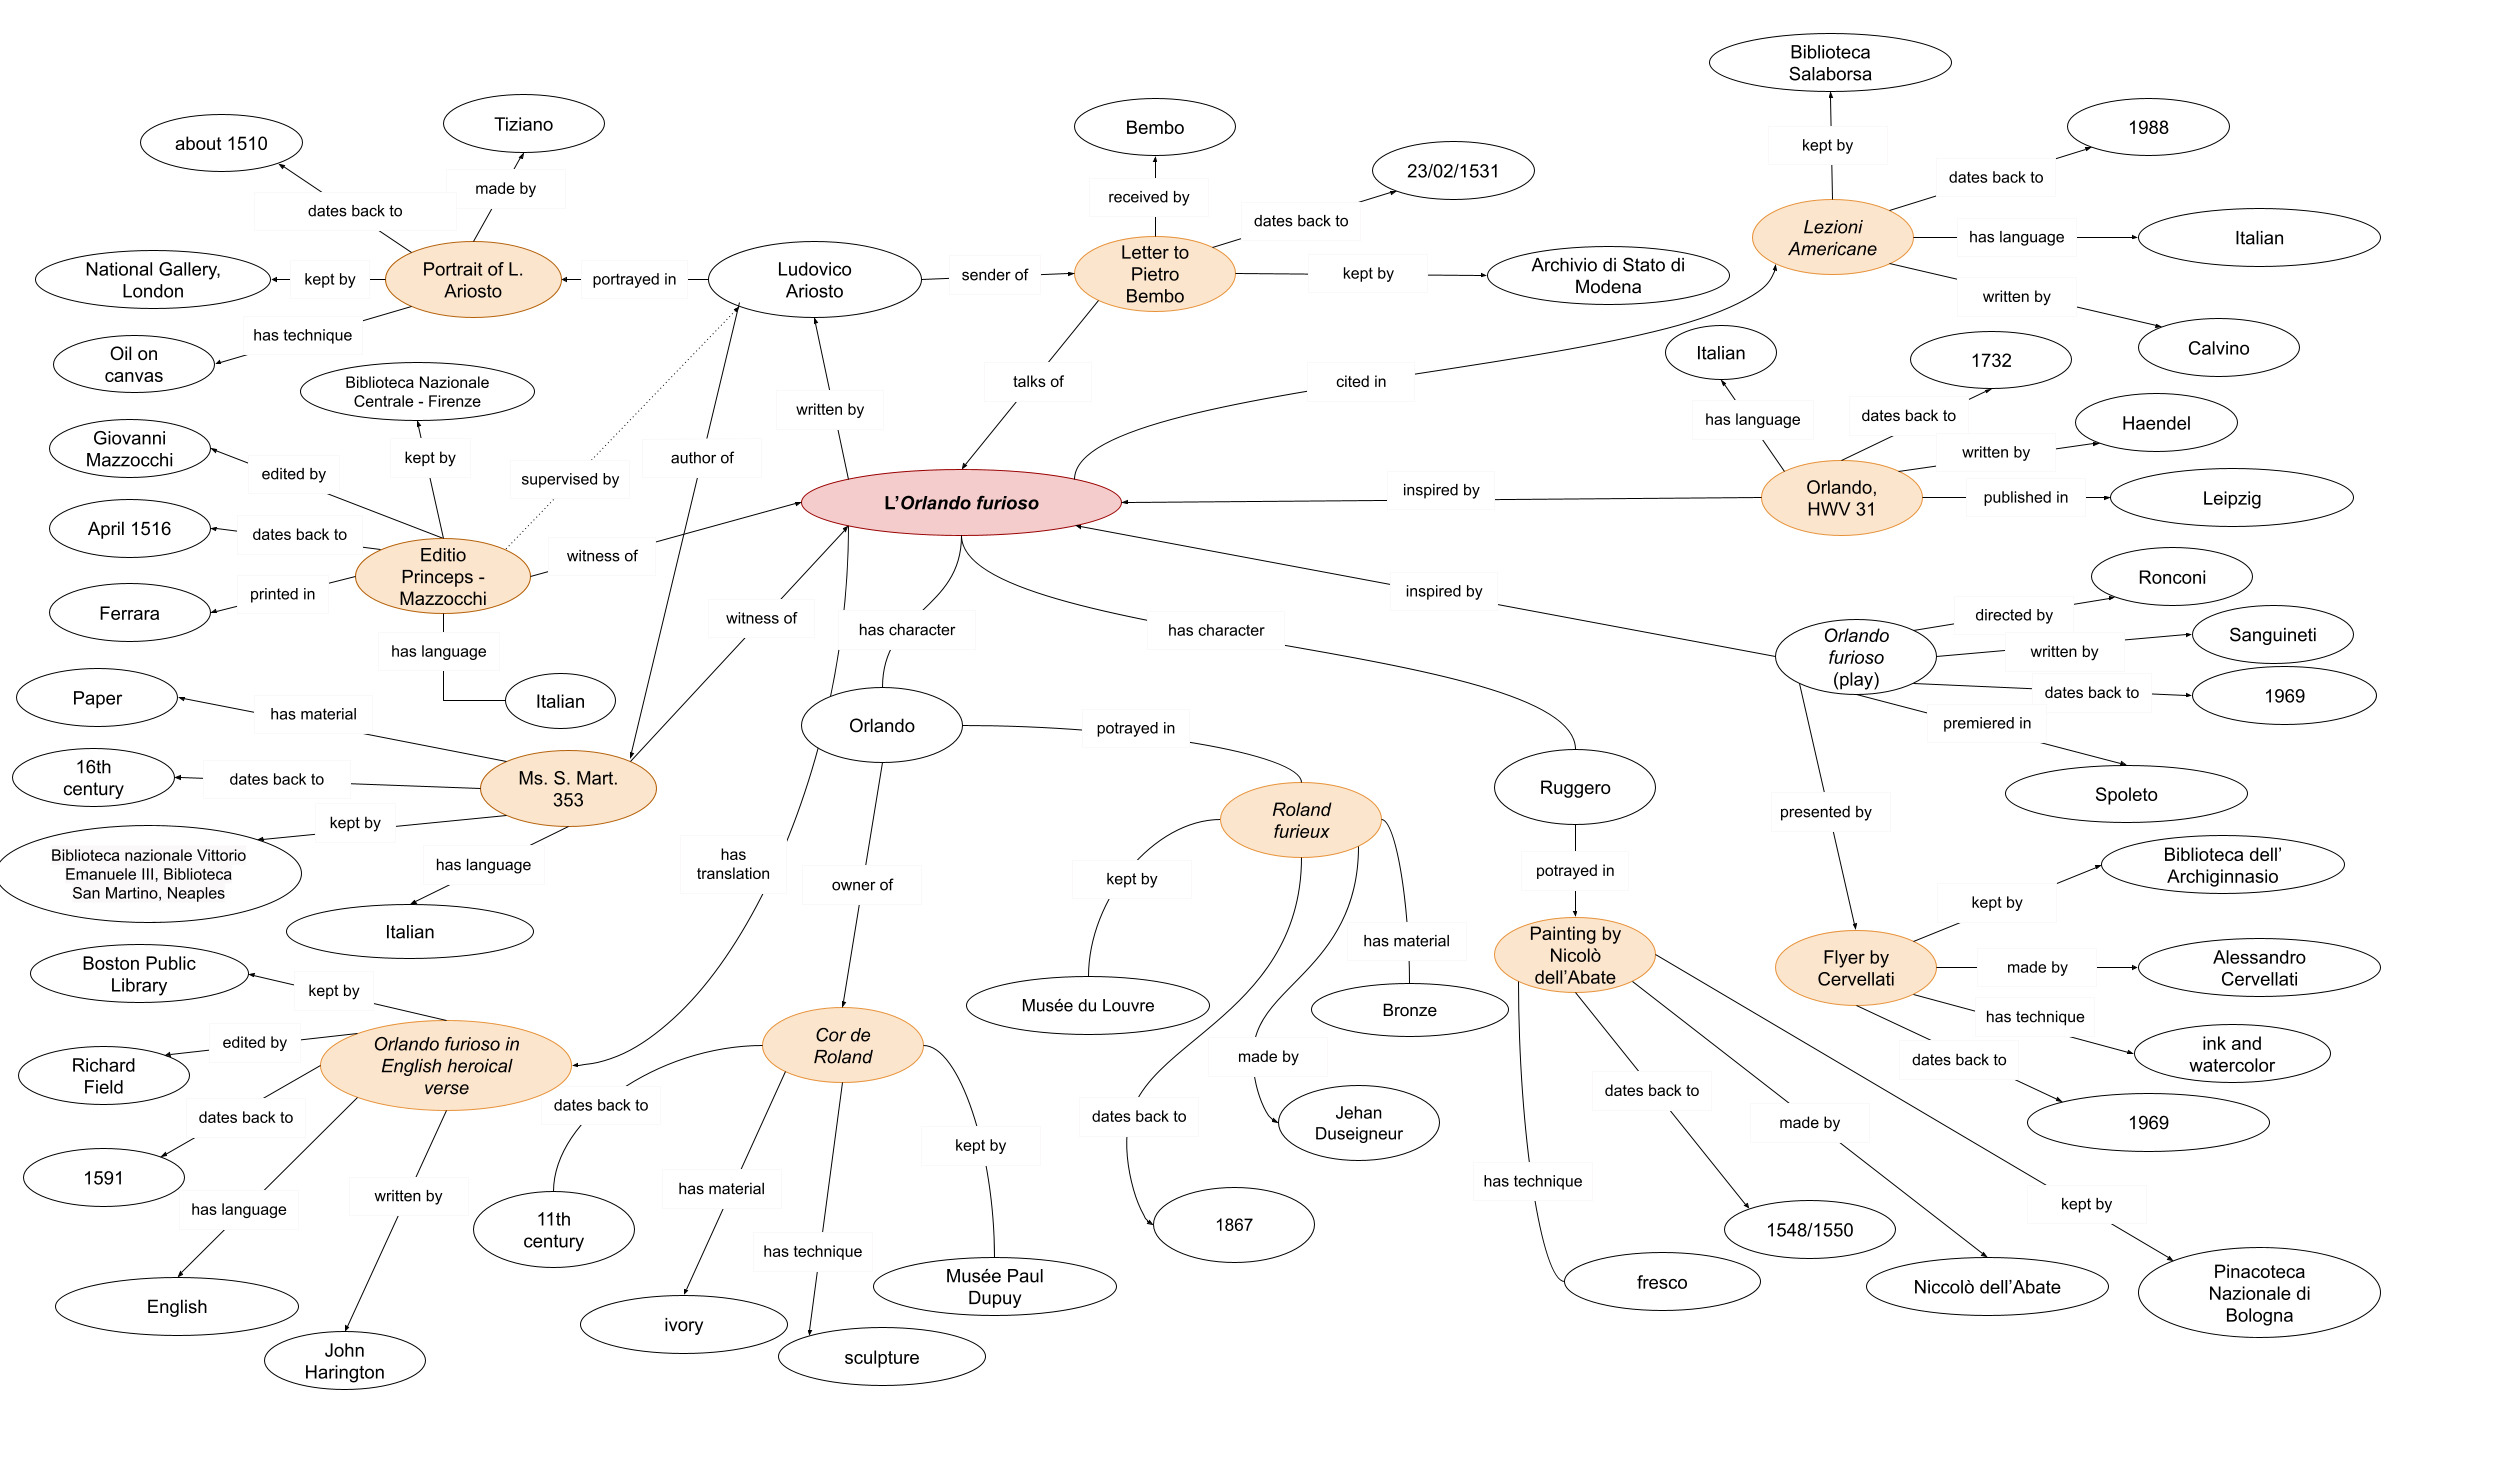
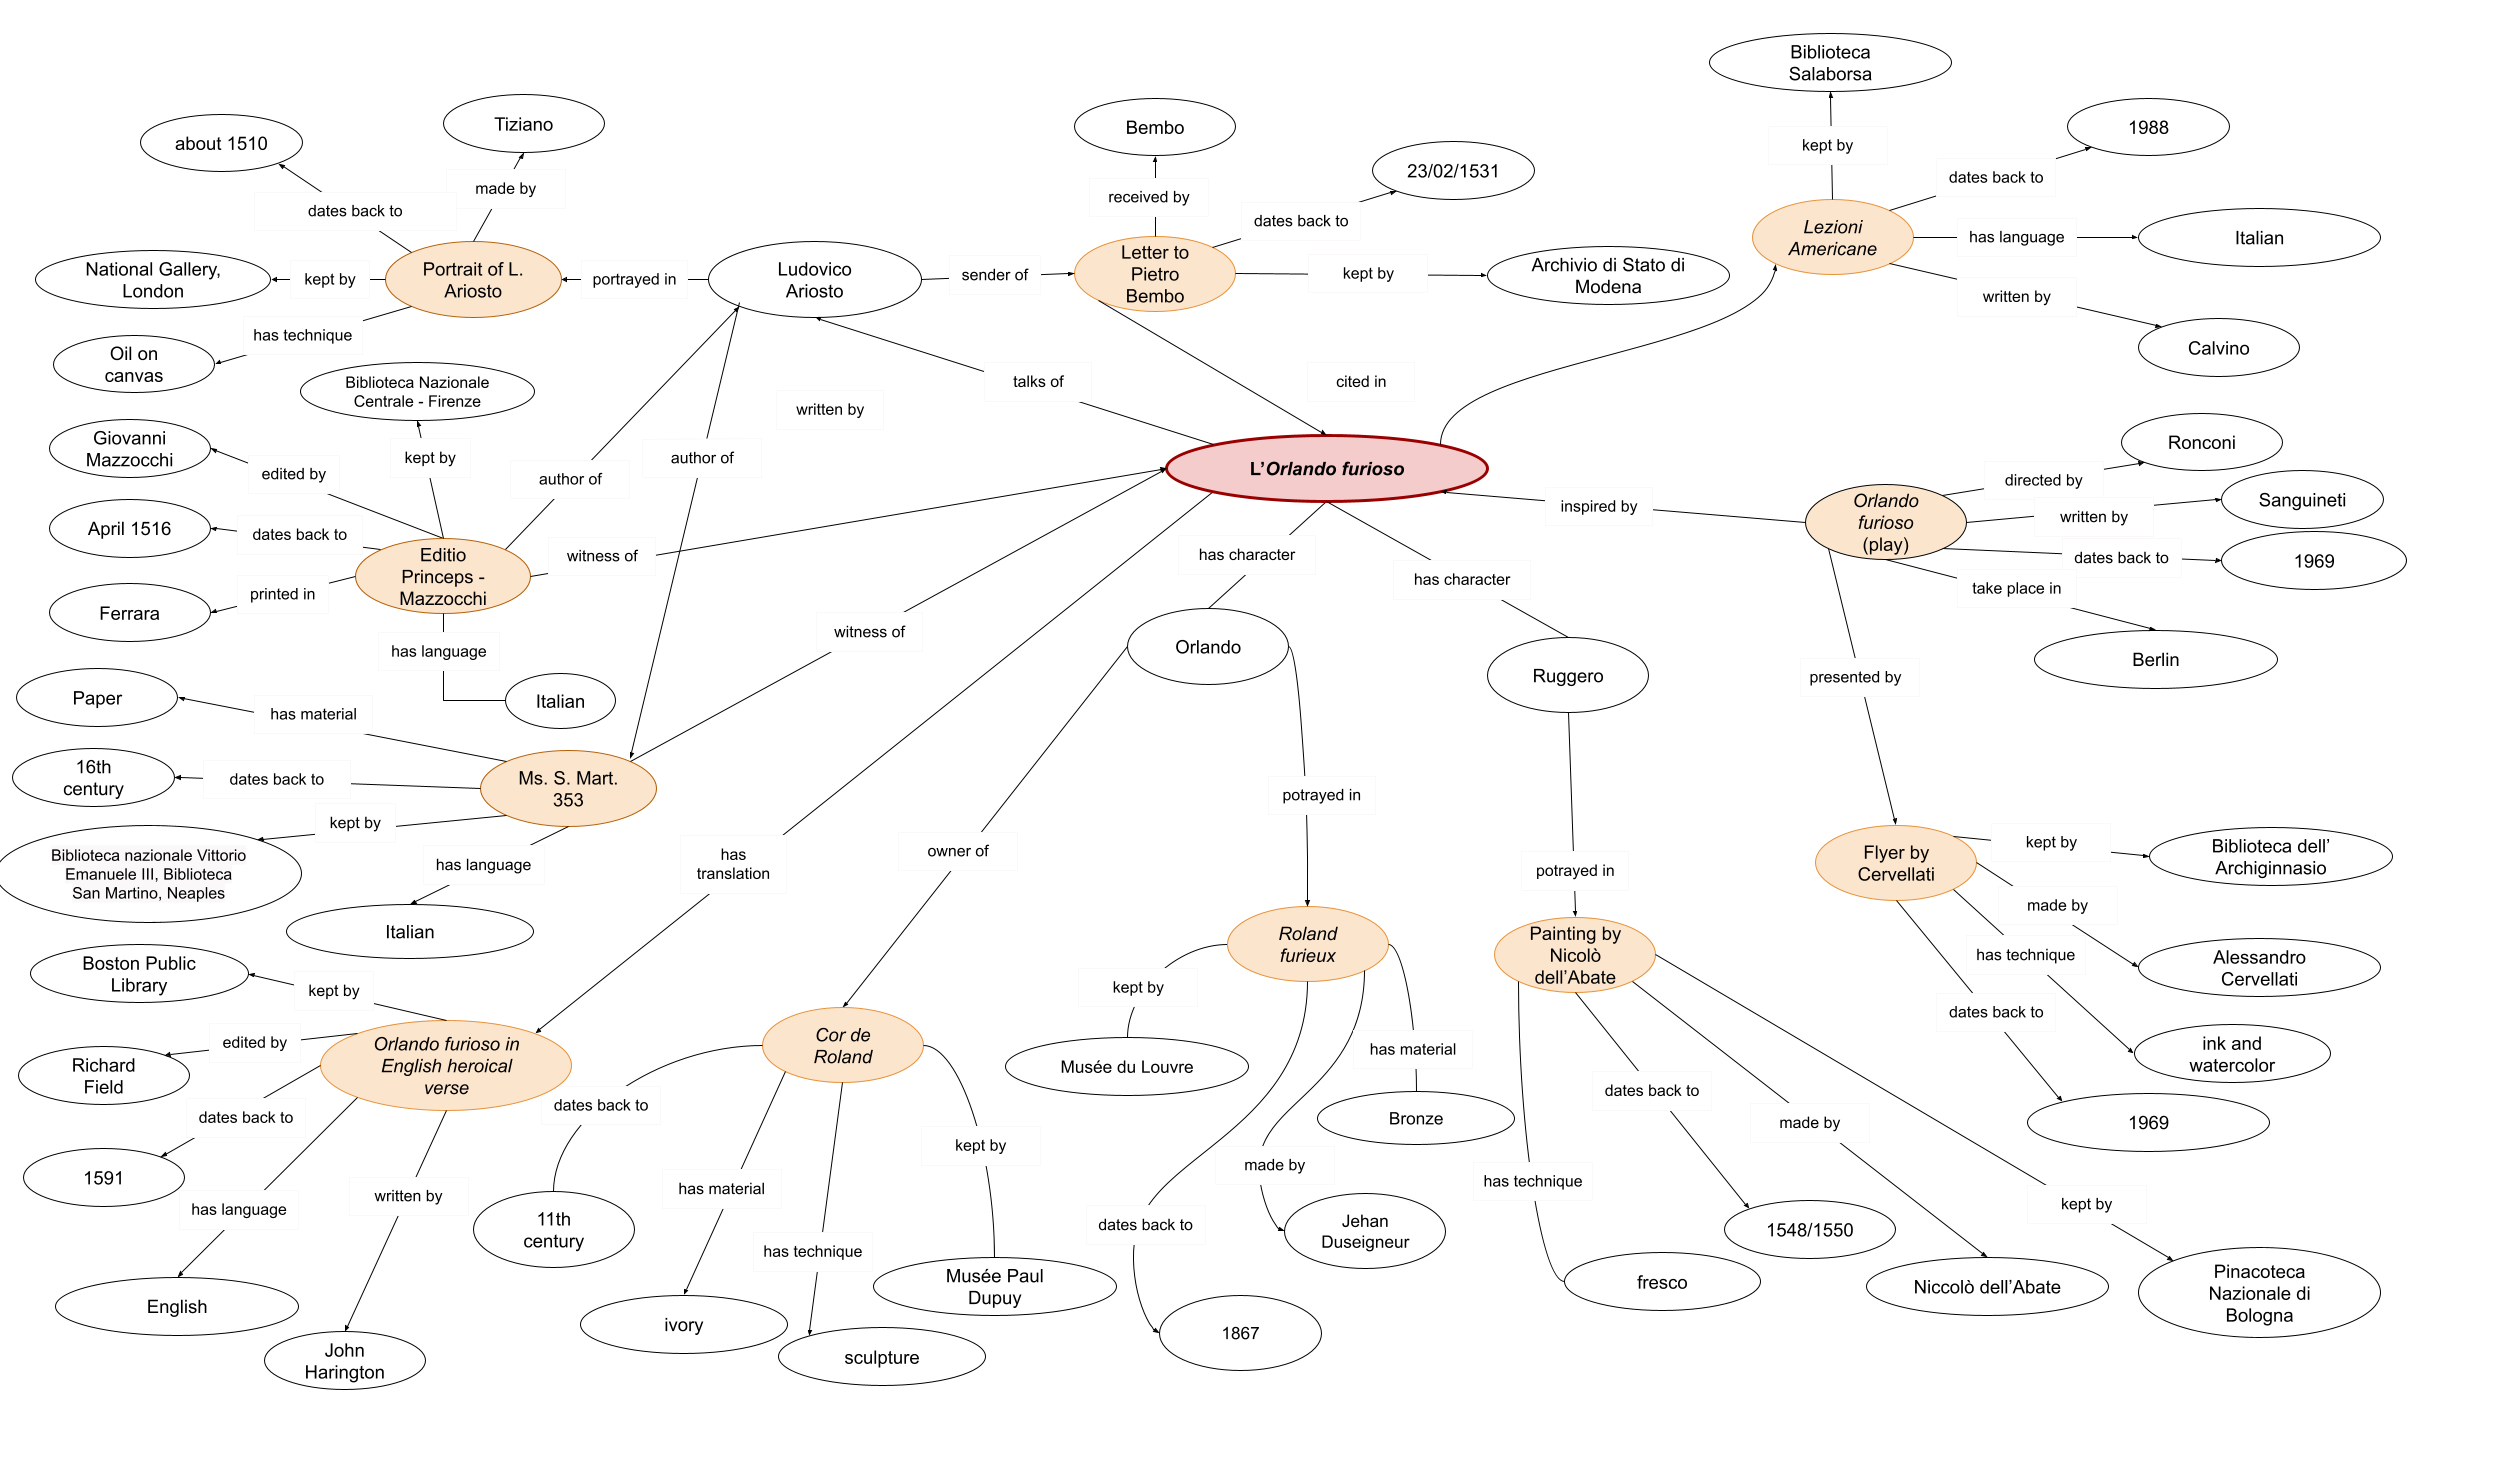
Change after meeting 1/4

diff --git a/index.html b/index.html
@@ -85,7 +85,7 @@
         
         <div id="itemssection">
             <div><h2 class="slide">Selected items</h2></div>
-            <p class="undertitle">This knowledge organization project aims at portraying through the tools of <b>linked open data</b> (LOD) the cultural <em>humus</em> surrounding the production of the <em>Orlando furioso</em> and providing an anthology of the most relevant reinterpretation of Ariosto’s masterpiece through different media and artistic languages from the Cinquecento to present days. To accomplish this objective, we opted for twelve items, preserved by different <b>LAM institutions</b>:</p>
+            <p class="undertitle">This knowledge organization project aims at portraying through the tools of <b>linked open data</b> (LOD) the cultural <em>humus</em> surrounding the production of the <em>Orlando furioso</em> and providing an anthology of the most relevant reinterpretation of Ariosto’s masterpiece through different media and artistic languages from the Cinquecento to present days. To accomplish this objective, we opted for eleven items, preserved by different <b>LAM institutions</b>:</p>
             
             <div class="container-fluid py-4">
                 <div class="row">
@@ -201,25 +201,6 @@
                                             </div>
                                         </div>
                                     </div>
-                                    
-                                    <div class="responsive">
-                                        <div class="gallery"> 
-                                            <a target="_blank" href="images/handel.png">
-                                                <img src="images/handel.png" alt="Orlando, HWV 31" width="600" height="400">
-                                            </a>
-                                            <div class="desc">Orlando, HWV 31<hr/>Haendel provided a musical translation of Ariosto’s masterpiece. In 1731 he composed the score for the “opera seria” Orlando. 
-                                                <div class="btncontainer">
-                                                    <button class="learn-more items-lib">
-                                                        <span class="circle" aria-hidden="true">
-                                                            <span class="icon arrow"></span>
-                                                        </span>
-                                                        <span class="button-text"><a href="https://imslp.org/wiki/Orlando%2C_HWV_31_%28Handel%2C_George_Frideric%29">Learn More</a></span>
-                                                    </button>
-                                                </div>
-                                            </div>
-                                        </div>
-                                    </div>
-                                    
                                     <div class="responsive">
                                         <div class="gallery">
                                             <a target="_blank" href="images/ruggero.jpg">
@@ -303,7 +284,7 @@
                                                         <span class="circle" aria-hidden="true">
                                                             <span class="icon arrow"></span>
                                                         </span>
-                                                        <span class="button-text"><a href="http://lucaronconi.it/scheda/teatro/orlando-furioso">Learn More</a></span>
+                                                        <span class="button-text"><a href="https://www.performing-arts.eu/Record/ADKA_VE_1963085">Learn More</a></span>
                                                     </button>
                                                 </div>
                                             </div>
@@ -364,23 +345,6 @@
                                                             <span class="icon arrow"></span>
                                                         </span>
                                                         <span class="button-text"><a href="https://archive.org/details/orlandofuriosoin00ario_0">Learn More</a></span>
-                                                    </button>
-                                                </div>
-                                            </div>
-                                        </div>
-                                    </div>
-                                    <div class="responsive">
-                                        <div class="gallery"> 
-                                            <a target="_blank" href="images/handel.png">
-                                                <img src="images/handel.png" alt="Orlando, HWV 31" width="600" height="400">
-                                            </a>
-                                            <div class="desc">Orlando, HWV 31<hr/>Haendel provided a musical translation of Ariosto’s masterpiece. In 1731 he composed the score for the “opera seria” Orlando. 
-                                                <div class="btncontainer">
-                                                    <button class="learn-more items-lib">
-                                                        <span class="circle" aria-hidden="true">
-                                                            <span class="icon arrow"></span>
-                                                        </span>
-                                                        <span class="button-text"><a href="https://imslp.org/wiki/Orlando%2C_HWV_31_%28Handel%2C_George_Frideric%29">Learn More</a></span>
                                                     </button>
                                                 </div>
                                             </div>
@@ -475,7 +439,7 @@
                                                         <span class="circle" aria-hidden="true">
                                                             <span class="icon arrow"></span>
                                                         </span>
-                                                        <span class="button-text"><a href="http://lucaronconi.it/scheda/teatro/orlando-furioso">Learn More</a></span>
+                                                        <span class="button-text"><a href="https://www.performing-arts.eu/Record/ADKA_VE_1963085">Learn More</a></span>
                                                     </button>
                                                 </div>
                                             </div>

diff --git a/models.html b/models.html
@@ -89,13 +89,13 @@
                     <td>Portrait of Ludovico Ariosto</td>
                     <td>Painting</td>
                     <td>National Gallery, London</td>
-                    <td><a href="http://vraweb.org/resourcesx/cataloging-cultural-objects/">CCO</a></td>
+                    <td><a href="https://www.loc.gov/standards/vracore/">VRA Core</a></td>
                 </tr>
                 <tr> <!-- ITEM2 --->
                     <td>Letter to Pietro Bembo</td>
                     <td>Letter</td>
                     <td>Archivio di Stato, Modena</td>
-                    <td><a href="https://www.loc.gov/ead/">EAD/XML</a></td>
+                    <td><a href="https://tei-c.org/release/doc/tei-p5-doc/en/html/">TEI/XML</a></td>
                 </tr>
                 <tr> <!-- ITEM3 --->
                     <td>Ms. S. Mart. 353</td>
@@ -119,13 +119,13 @@
                     <td><em>Cor de Roland</em></td>
                     <td>Work of art</td>
                     <td>Musée Paul Dupuy, Toulouse</td>
-                    <td><a href="http://www.getty.edu/research/publications/electronic_publications/cdwa/">CDWA</a></td>
+                    <td><a href="https://www.culture.gouv.fr/content/download/197593/2109675"><em>Joconde</em></a></td>
                 </tr>
                 <tr> <!-- ITEM7 --->
                     <td><em>Roland furieux</em></td>
                     <td>Statue</td>
                     <td>Musée du Louvre, Paris</td>
-                    <td><a href="http://www.getty.edu/research/publications/electronic_publications/cdwa/">CDWA</a></td>
+                    <td><a href="https://www.culture.gouv.fr/content/download/197593/2109675"><em>Joconde</em></td>
                 </tr>
                 <tr> <!-- ITEM8 --->
                     <td>Fresco by Nicolà dell'Abate</td>
@@ -137,13 +137,13 @@
                     <td>Flyer by Cervellati</td>
                     <td>Flyer</td>
                     <td>Genius Bononiae, Biblioteca dell'Archiginnasio, Bologna</td>
-                    <td><a href="https://www.ica.org/sites/default/files/CBPS_2000_Guidelines_ISAD(G)_Second-edition_EN.pdf">ISAD(G)</a></td>
+                    <td><a href="http://www.getty.edu/research/publications/electronic_publications/cdwa/">CDWA</a></td>
                </tr>
                 <tr> <!-- ITEM10 --->
-                    <td>Orlando, HWV 31</td>
-                    <td>Score</td>
-                    <td>Petrucci Music Library</td>
-                    <td><a href="https://www.loc.gov/marc/umb/">Marc 21</a></td>
+                    <td>Orlando furioso by Ronconi and Sanguineti</td>
+                    <td>Play</td>
+                    <td>Fachinformationsdienst für darstellende Kunst</td>
+                    <td><a href="https://www.dublincore.org/specifications/dublin-core/dcmi-terms/">DC</a></td>
                 </tr>
                 <tr> <!-- ITEM11 --->
                     <td><em>Six memos for the next millennium</em>, Italo Calvino</td>
@@ -191,10 +191,11 @@
                                 <th>TEI/XML</th>
                                 <th>MARC21 / MARCXML</th>
                                 <th>Unimarc</th>
-                                <th>ISAD(G)</th>
-                                <th>EAD/XML</th>
                                 <th>CDWA</th>
                                 <th>CCO</th>
+                                <th><em>Joconde</em></th>
+                                <th>VAR Core</th>
+                                <th>ISAD(G)</th>
                             </tr>
                             <tr>
                                 <td>Contributor</td>
